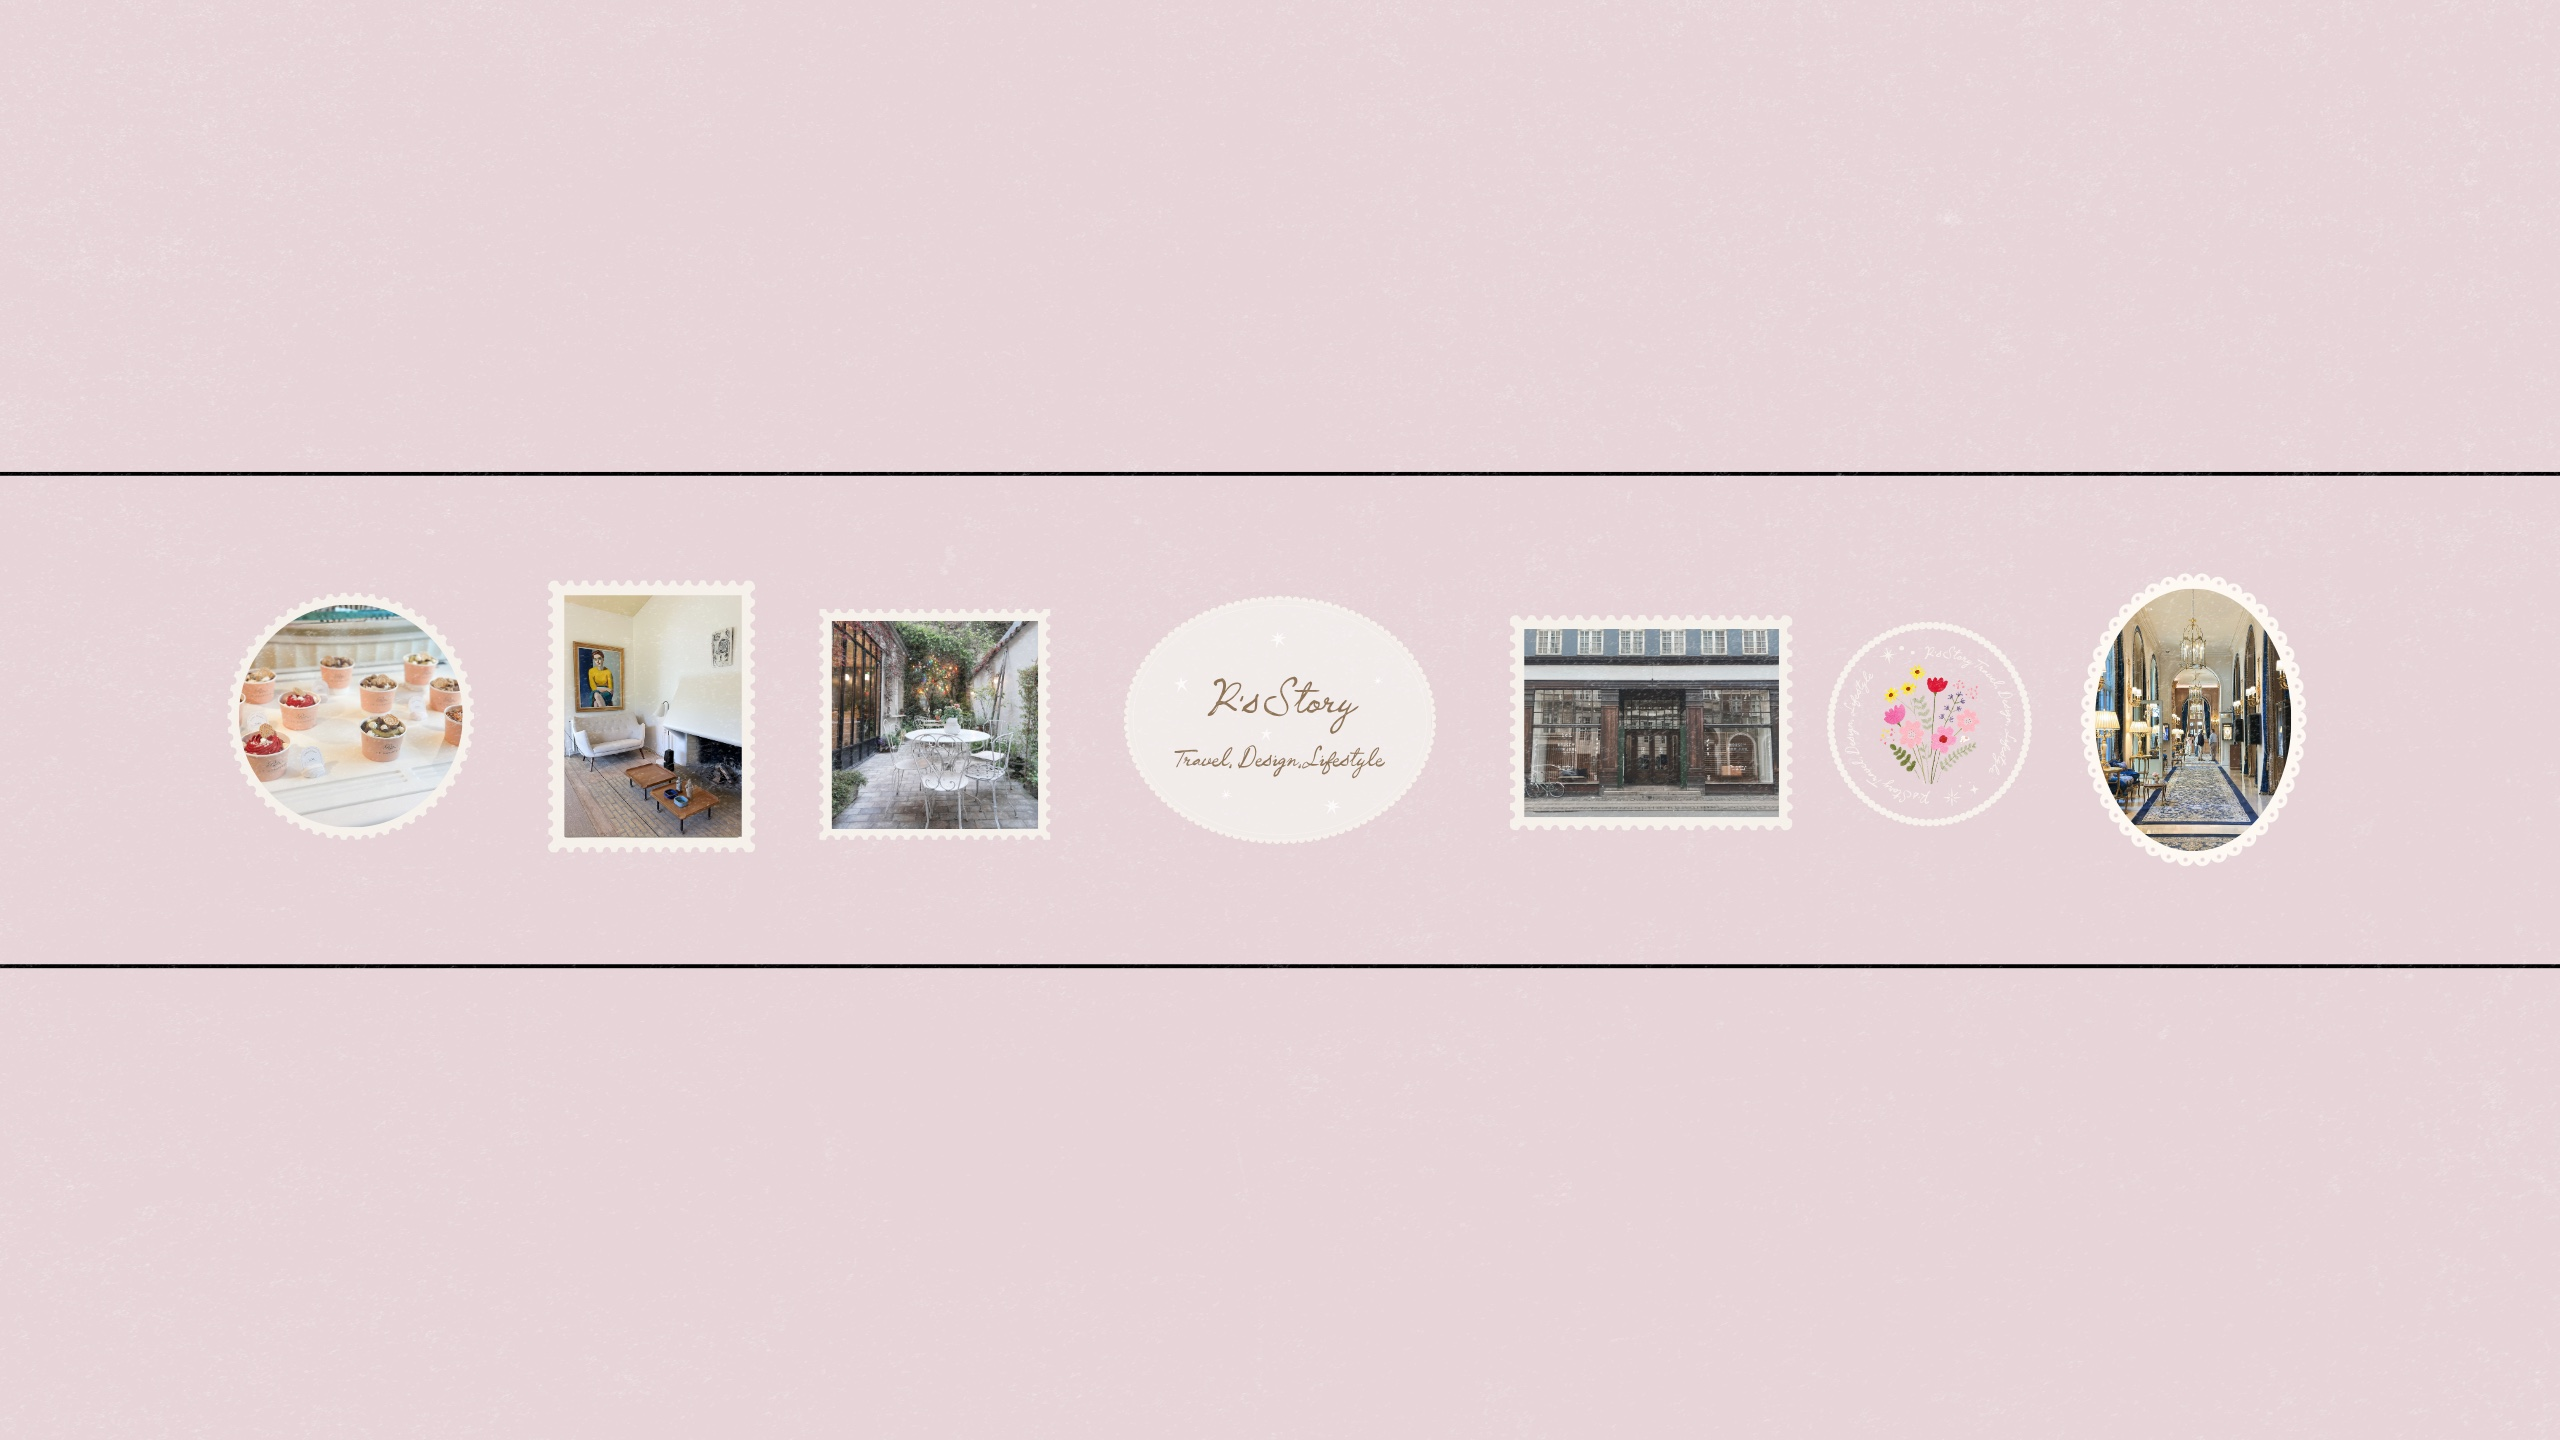
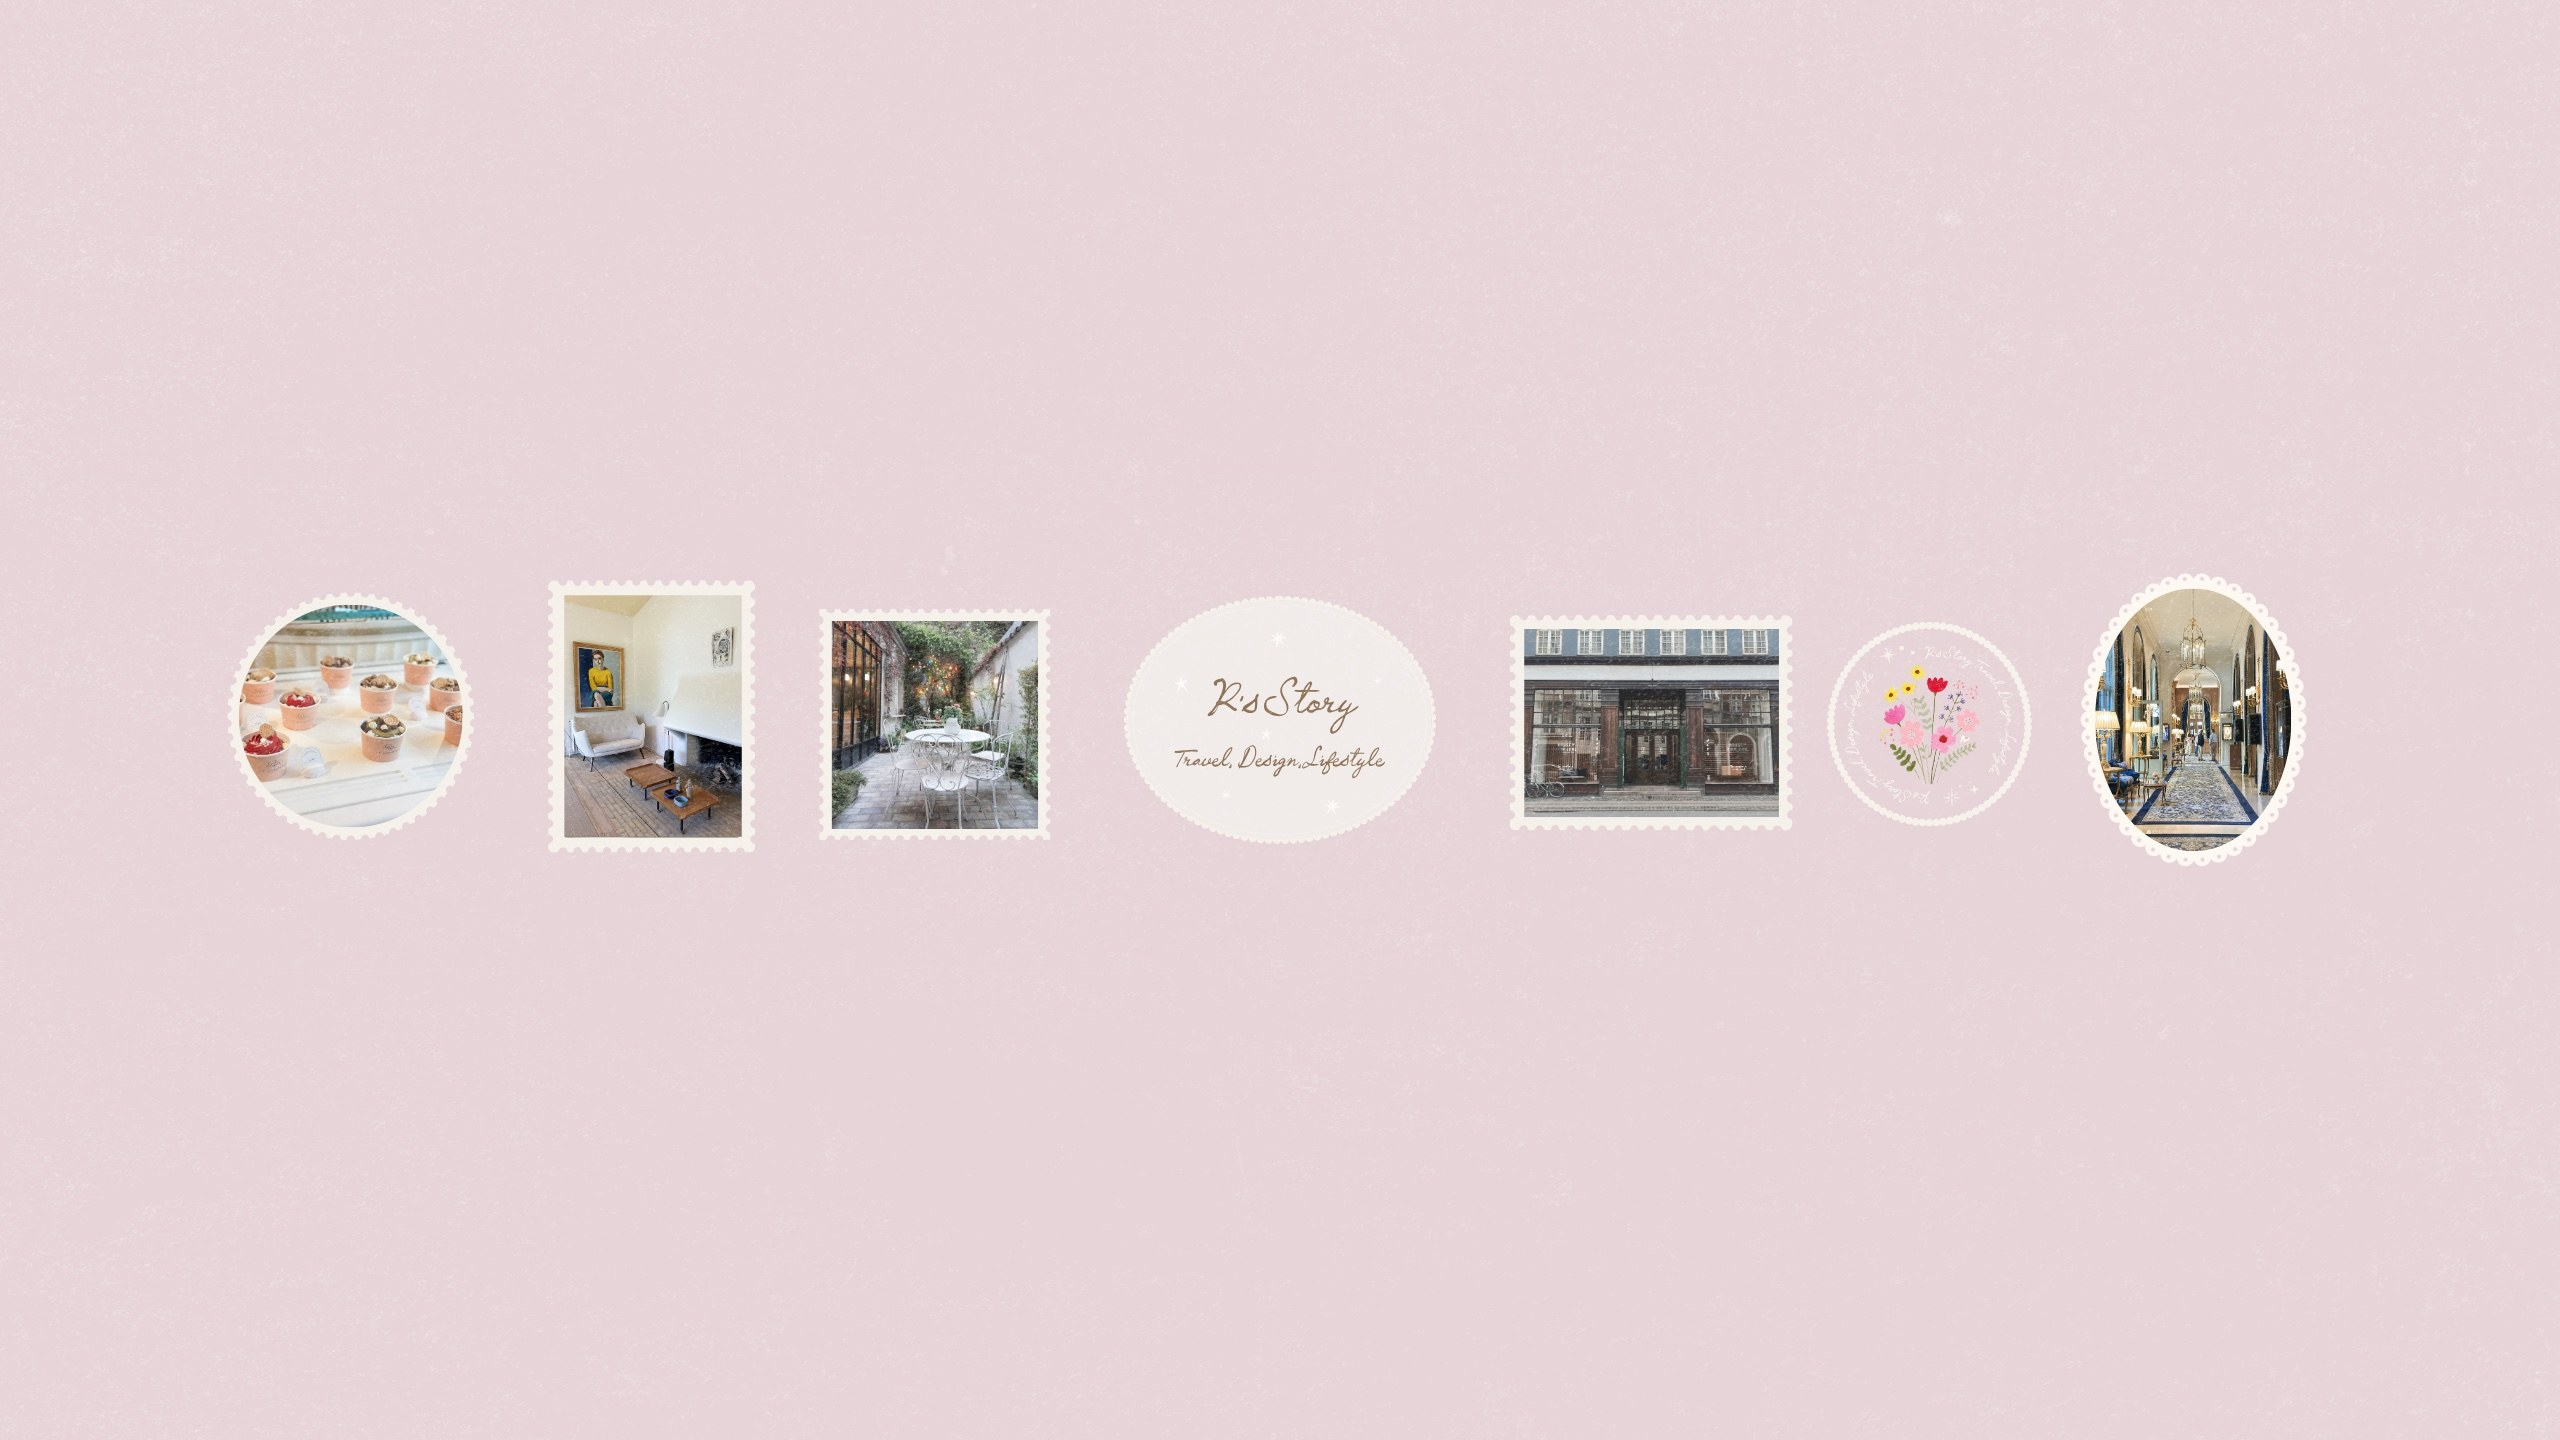
Remove Lille Bakery bread photo from journal, add Instagram link, remove lines from home hero image
Claude-Session: https://claude.ai/code/session_01ChfuAckf8kD8vANoaTG5Rx

Changed region(s): [[0.0, 0.6562, 1.0, 0.6875]]

diff --git a/assets/js/data/journal.js b/assets/js/data/journal.js
@@ -77,9 +77,6 @@ window.JOURNAL_DATA = [
       { image: "assets/images/journal/copenhagen/lille-bakery-interior.jpg",
         place: { en: "Lille Bakery", ja: "Lille Bakery" },
         alt: { en: "The bakery seen from above, with bakers at work and long wooden tables", ja: "上から見たベーカリー。働くパン職人と長い木のテーブル" } },
-      { image: "assets/images/journal/copenhagen/lille-bakery.jpg",
-        place: { en: "Lille Bakery", ja: "Lille Bakery" },
-        alt: { en: "Rows of freshly baked bread on the counter, seen from above", ja: "上から見た、カウンターに並ぶ焼きたてのパン" } },
       { image: "assets/images/journal/copenhagen/noma-projects.jpg",
         place: { en: "Noma Projects", ja: "Noma Projects" },
         alt: { en: "The glass greenhouse shop of Noma Projects, full of plants", ja: "植物があふれる、Noma Projects のガラスの温室ショップ" } },

diff --git a/assets/js/config.js b/assets/js/config.js
@@ -16,7 +16,7 @@ window.SITE_CONFIG = {
   /* 外部サービスのURL */
   links: {
     youtube:   "https://www.youtube.com/@r-story-travel",
-    instagram: "",   // 例: "https://www.instagram.com/あなたのID/"
+    instagram: "https://www.instagram.com/r_story_travel/",
     pinterest: "",   // 例: "https://www.pinterest.com/あなたのID/"
     substack:  "",   // 例: "https://あなたの名前.substack.com"
     substackSubscribe: "" // 購読ページ。例: "https://あなたの名前.substack.com/subscribe"
